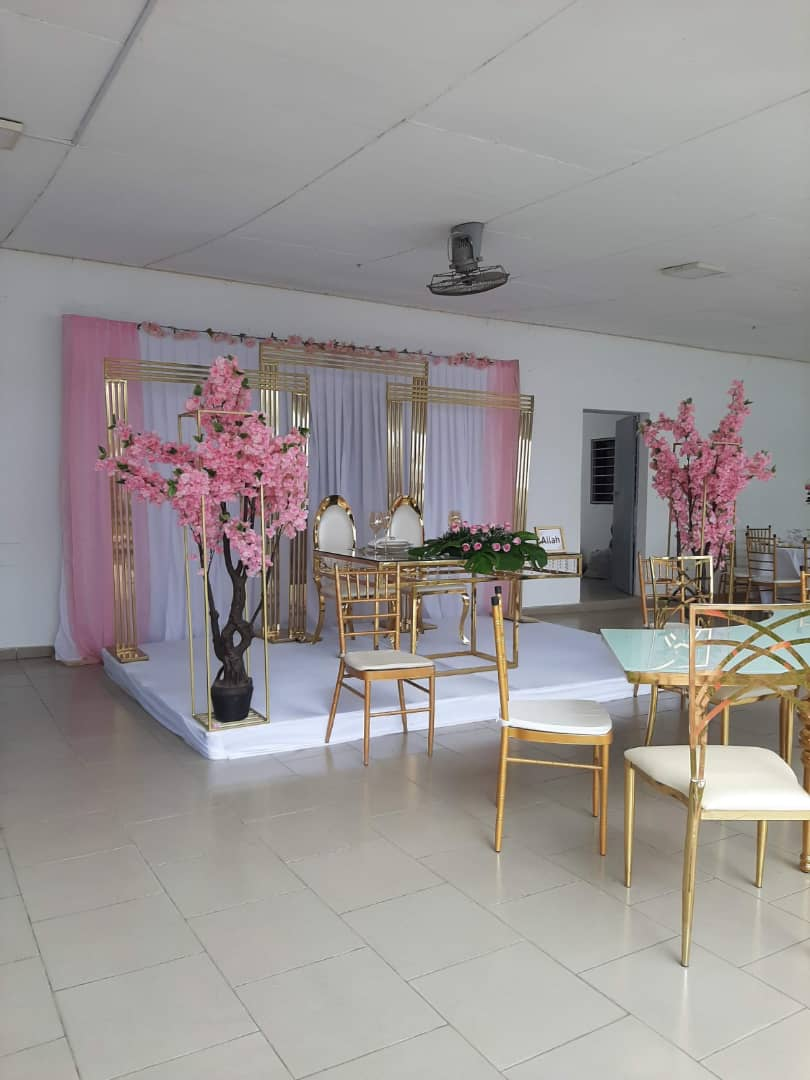
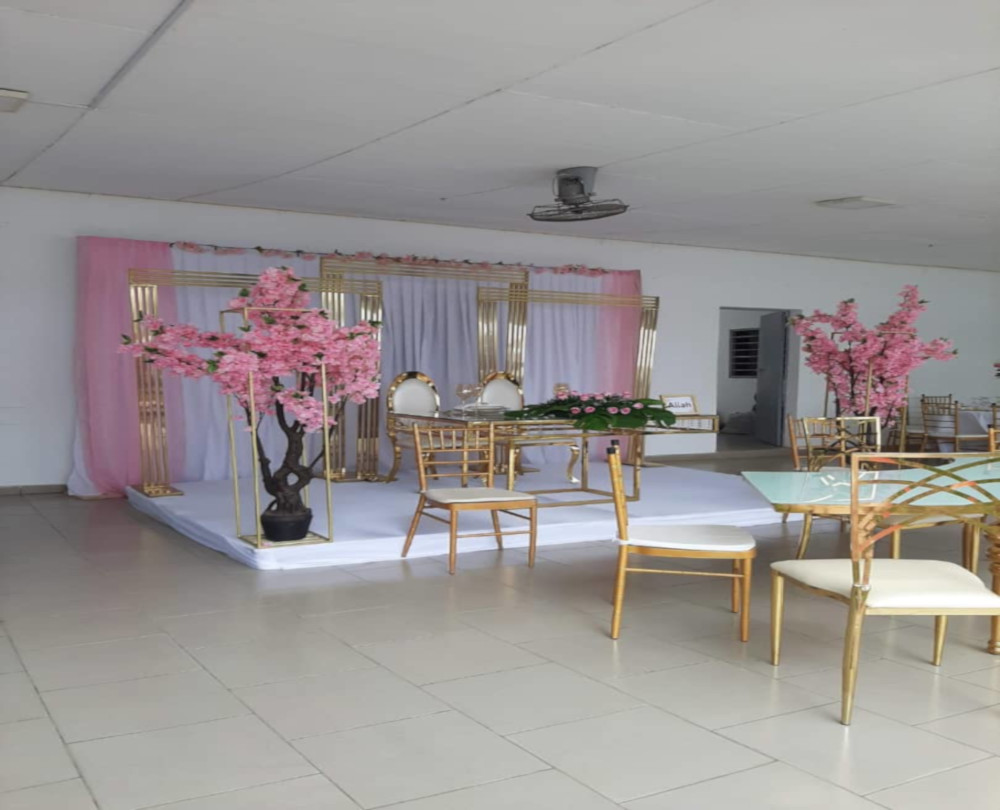
Change front image

diff --git a/portfolio/templates/portfolio/home.html b/portfolio/templates/portfolio/home.html
@@ -40,37 +40,41 @@
                     <button type="button" data-bs-target="#myCarousel" data-bs-slide-to="7" aria-label="Slide 8"></button>
                     <button type="button" data-bs-target="#myCarousel" data-bs-slide-to="8" aria-label="Slide 9"></button>
                     <button type="button" data-bs-target="#myCarousel" data-bs-slide-to="9" aria-label="Slide 10"></button>
+                    <button type="button" data-bs-target="#myCarousel" data-bs-slide-to="10" aria-label="Slide 11"></button>
                   </div>
                   <div class="carousel-inner">
                     <div class="carousel-item active">
-                      <img src="{% static 'portfolio/images/img013.jpg' %}" class="d-block w-100 img-fluid" alt="image1">
+                      <img src="{% static 'portfolio/images/img005.jpg' %}" class="d-block w-100 img-fluid" alt="image1">
+                    </div>
+                    <div class="carousel-item active">
+                      <img src="{% static 'portfolio/images/img013.jpg' %}" class="d-block w-100 img-fluid" alt="image2">
                     </div>
                     <div class="carousel-item">
-                      <img src="{% static 'portfolio/images/img012.jpg' %}" class="d-block w-100 img-fluid" alt="image2">
+                      <img src="{% static 'portfolio/images/img012.jpg' %}" class="d-block w-100 img-fluid" alt="image3">
                     </div>
                     <div class="carousel-item">
-                      <img src="{% static 'portfolio/images/img018.jpg' %}" class="d-block w-100 img-fluid" alt="image3">
+                      <img src="{% static 'portfolio/images/img018.jpg' %}" class="d-block w-100 img-fluid" alt="image4">
                     </div>
                     <div class="carousel-item">
-                      <img src="{% static 'portfolio/images/img019.jpg' %}" class="d-block w-100 img-fluid" alt="image2">
+                      <img src="{% static 'portfolio/images/img019.jpg' %}" class="d-block w-100 img-fluid" alt="image5">
                     </div>
                     <div class="carousel-item">
-                      <img src="{% static 'portfolio/images/img020.jpg' %}" class="d-block w-100 img-fluid" alt="image3">
+                      <img src="{% static 'portfolio/images/img020.jpg' %}" class="d-block w-100 img-fluid" alt="image6">
                     </div>
                     <div class="carousel-item">
-                      <img src="{% static 'portfolio/images/img021.jpg' %}" class="d-block w-100 img-fluid" alt="image3">
+                      <img src="{% static 'portfolio/images/img021.jpg' %}" class="d-block w-100 img-fluid" alt="image7">
                     </div>
                     <div class="carousel-item">
-                      <img src="{% static 'portfolio/images/img014.jpg' %}" class="d-block w-100 img-fluid" alt="image3">
+                      <img src="{% static 'portfolio/images/img014.jpg' %}" class="d-block w-100 img-fluid" alt="image8">
                     </div>
                     <div class="carousel-item">
-                      <img src="{% static 'portfolio/images/img001.jpg' %}" class="d-block w-100 img-fluid" alt="image3">
+                      <img src="{% static 'portfolio/images/img001.jpg' %}" class="d-block w-100 img-fluid" alt="image9">
                     </div>
                     <div class="carousel-item">
-                      <img src="{% static 'portfolio/images/img002.jpg' %}" class="d-block w-100 img-fluid" alt="image3">
+                      <img src="{% static 'portfolio/images/img002.jpg' %}" class="d-block w-100 img-fluid" alt="image10">
                     </div>
                     <div class="carousel-item">
-                      <img src="{% static 'portfolio/images/img006.jpg' %}" class="d-block w-100 img-fluid" alt="image3">
+                      <img src="{% static 'portfolio/images/img006.jpg' %}" class="d-block w-100 img-fluid" alt="image11">
                     </div>
                   </div>
                   <button class="carousel-control-prev" type="button" data-bs-target="#myCarousel" data-bs-slide="prev">

diff --git a/portfolio/templates/portfolio/base.html b/portfolio/templates/portfolio/base.html
@@ -42,7 +42,7 @@
       <div class="container-fluid">
         <a class="navbar-brand" href="{% url 'home' %}">
           <img src="{% static 'portfolio/images/logo2.png' %}" alt="Eilinoya Events" style="width:20%" />
-          <span style="color:#9262b5;">Eilinoya </span><span style="color:#d4a4f5;">Events</span>
+          <span style="color:#f2e9f7;">Eilinoya </span><span style="color:#d4a4f5;">Events</span>
         </a>
         <button class="navbar-toggler" type="button" data-bs-toggle="collapse" data-bs-target="#navBar"
                 aria-controls="navbarSupportedContent" aria-expanded="false" aria-label="Toggle navigation">
